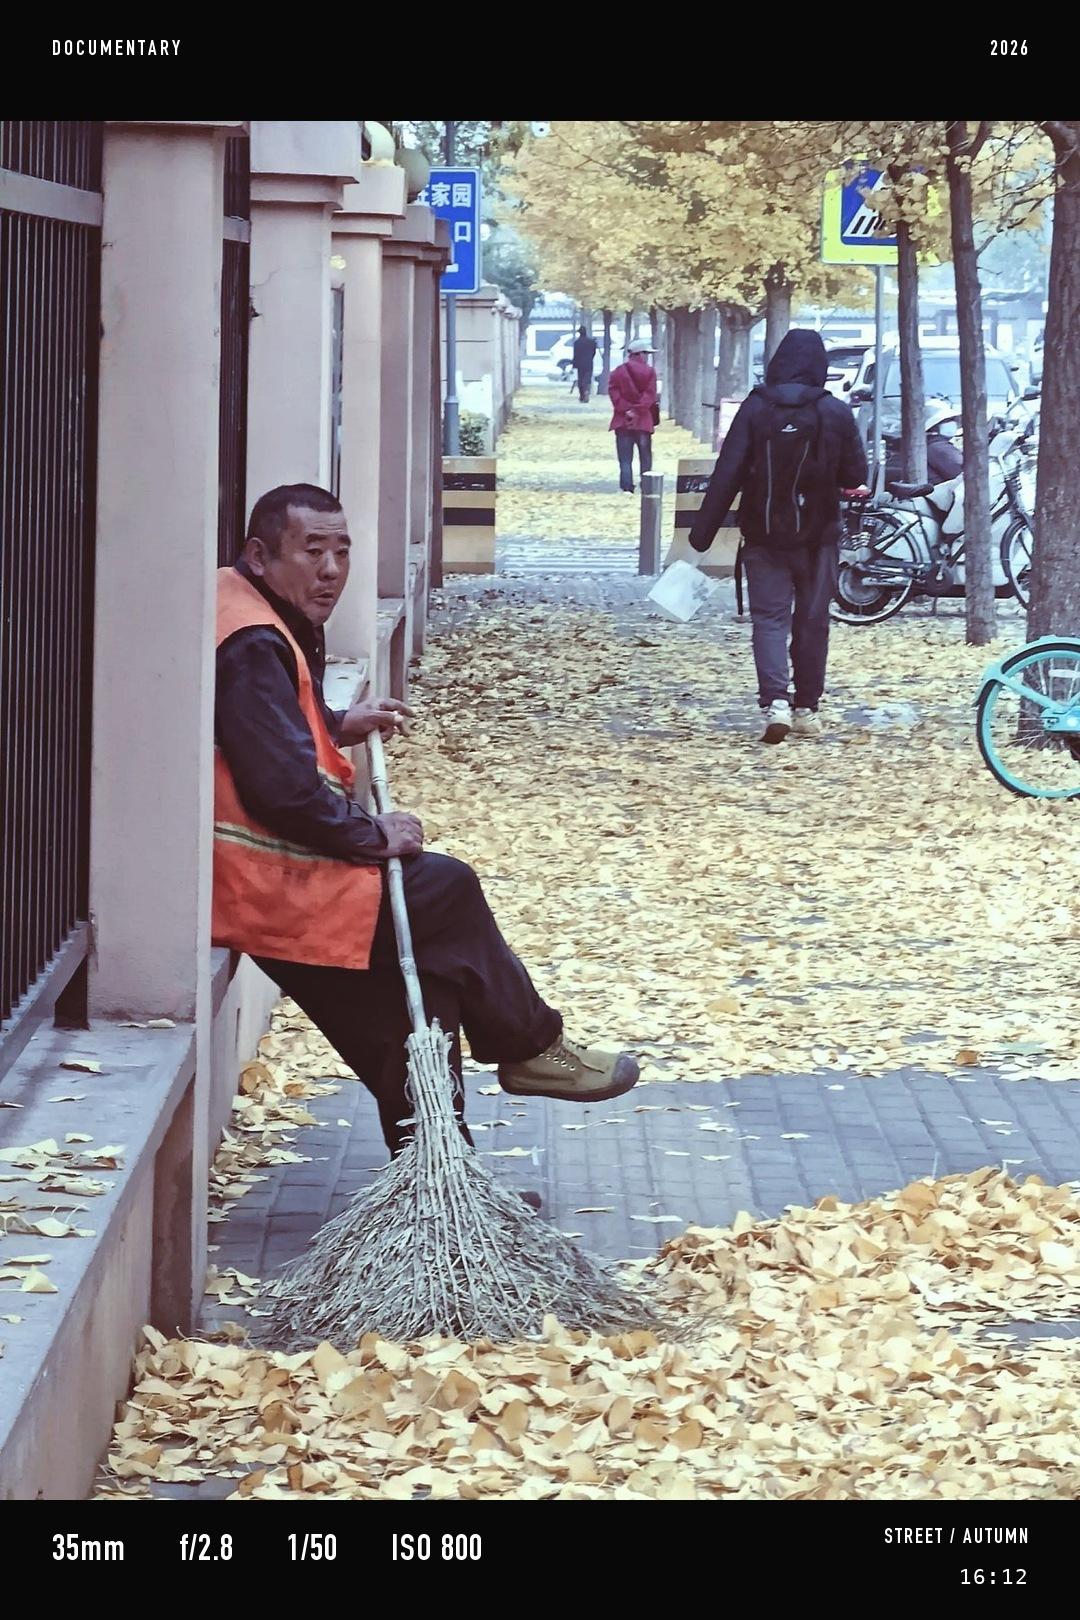
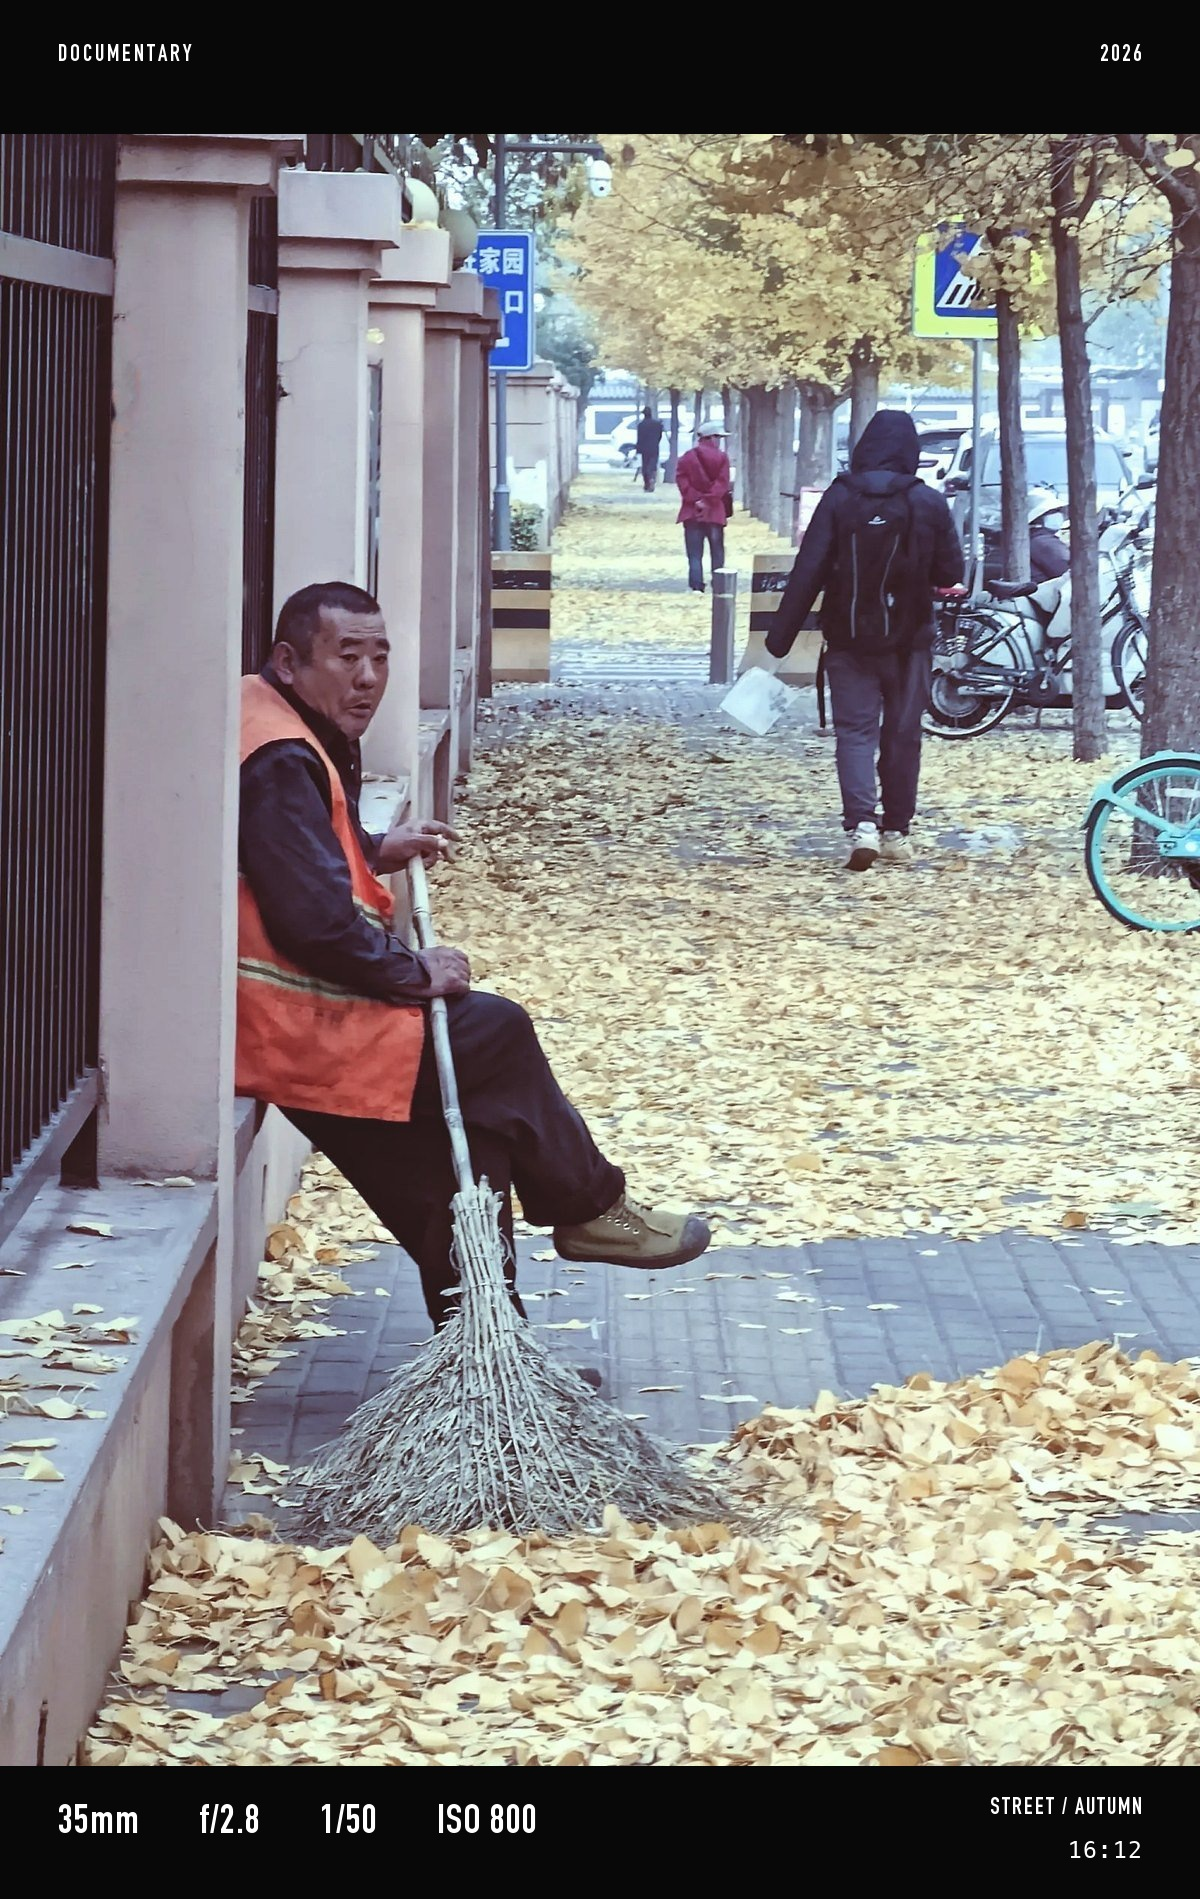
作品集网站 首次发布

diff --git a/_shot.html b/_shot.html
@@ -1,0 +1,12 @@
+<!doctype html><html><body style="margin:0">
+<iframe id="f" src="index.html" style="width:1440px;height:2200px;border:0"></iframe>
+<script>
+document.getElementById('f').addEventListener('load',function(){
+  var d=this.contentDocument;
+  setTimeout(function(){
+    var b=d.querySelector('[data-project="portraits"]');
+    if(b) b.click();
+    setTimeout(function(){ window.scrollTo(0,0); },300);
+  },600);
+});
+</script></body></html>
